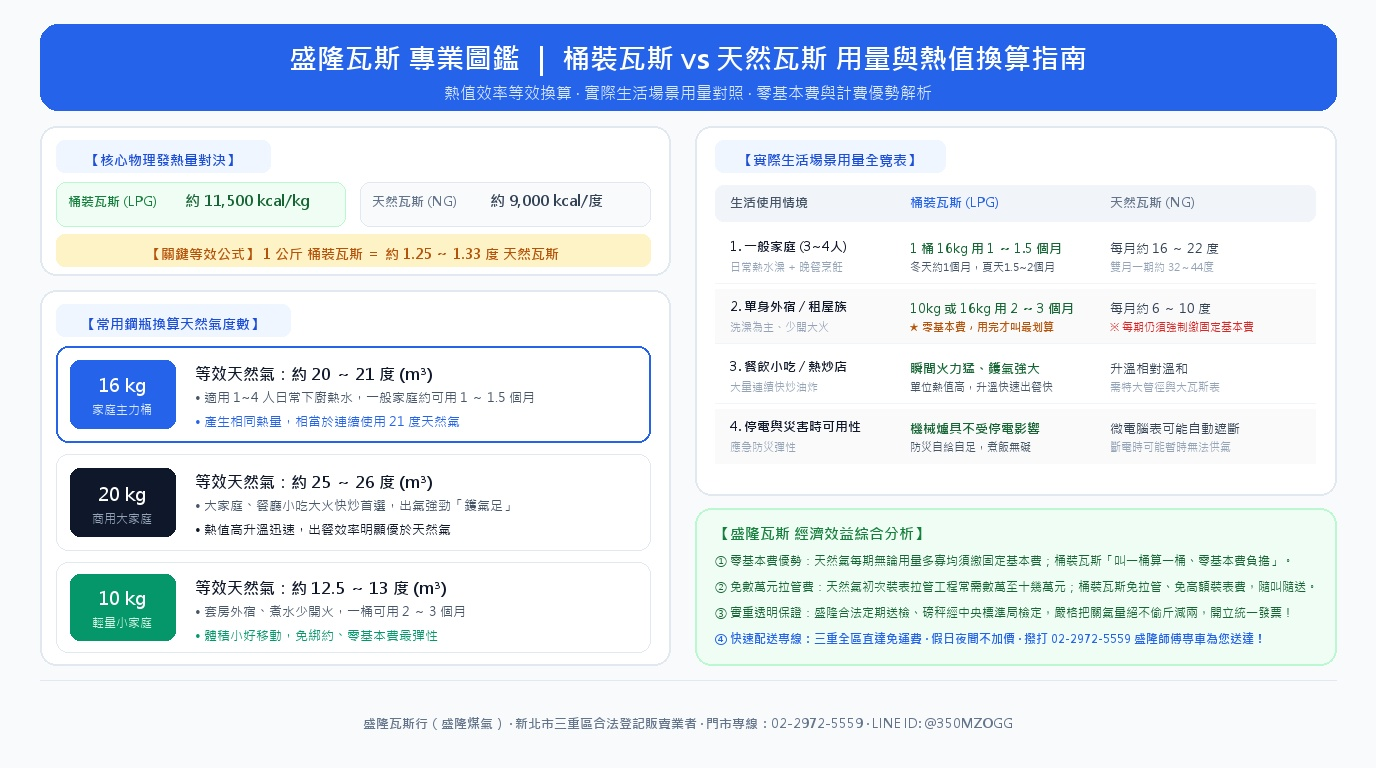
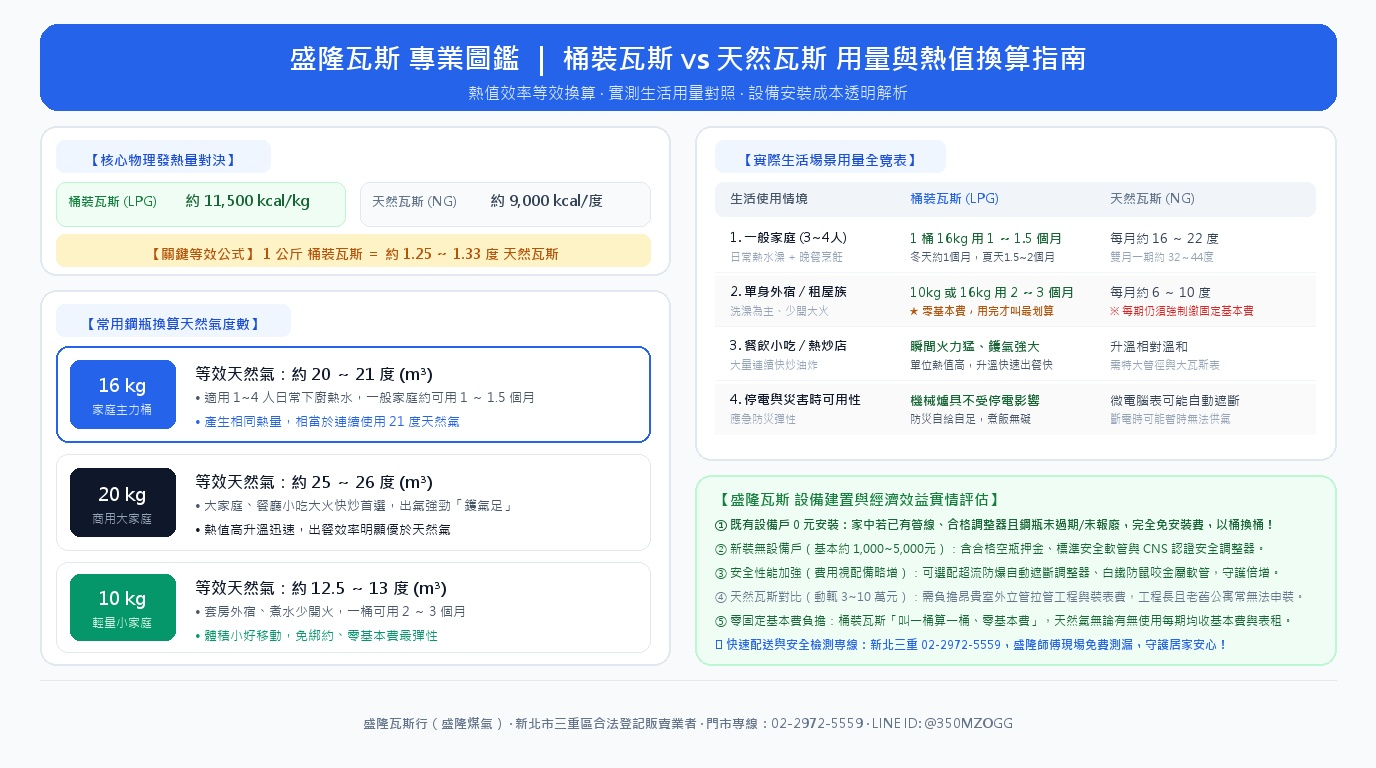
feat: 更新天然瓦斯與桶裝瓦斯綜合評估比較（設備建置、熱值換算、高解析圖表、LINE AI與官網FAQ全面同步）

Changed region(s): [[0.5, 0.25, 0.9688, 0.8438], [0.3125, 0.0938, 0.6875, 0.1562]]

diff --git a/website/index.html b/website/index.html
@@ -1919,14 +1919,14 @@
         {
           "cat": "natural_gas",
           "q": "桶裝瓦斯和天然瓦斯（天然氣）金額費用如何比較？哪一個比較省？",
-          "a": "兩者計費架構不同，各有優勢：<br>① 天然氣（管道瓦斯）：每期無論用量多寡，均需固定繳納「基本費」（約 60~100元/月）與機械表維護費，且初次申裝需負擔昂貴的室外配管與裝表工程費（常達數萬至十幾萬元不等）。<br>② 桶裝瓦斯（液化石油氣）：零基本費負擔、免高額裝表拉管費，「有用才叫、叫一桶算一桶」，價格完全隨中油牌價透明公開。對於低用量家庭、外宿租屋族或需要大火快炒的餐飲業者，桶裝瓦斯總體使用彈性更大、更省荷包！",
-          "image": "./images/natural-vs-lpg-gas.jpg",
+          "a": "兩者計費架構與建置成本不同，實情評估如下：<br>① 初期建置與安裝費用透明比較：<br>• 桶裝瓦斯既有設備戶（0 元安裝）：家中若已有標準管線、合格調整器且鋼瓶未過期/未報廢，完全免安裝費，以桶換桶！<br>• 桶裝瓦斯新裝無設備戶（基本約 1,000~5,000 元）：含合格空瓶押金保證金、標準安全軟管與 CNS 認證安全調整器；若需加強安全防護（如超流防爆自動遮斷器、白鐵防鼠咬金屬管等）費用會視配備略增。<br>• 天然瓦斯申裝費用昂貴：室外配管工程與裝表費動輒高達 3~10 萬元以上，施工期長且老舊公寓或租屋常無法申裝。<br>② 固定基本費與長期使用：天然氣每期無論用量多寡均收取固定基本費與表租；桶裝瓦斯「零固定基本費、叫一桶算一桶」，低用量家庭與租屋族更省荷包！",
+          "image": "./images/gas-consumption-comparison.jpg",
           "isCommon": true
         },
         {
           "cat": "natural_gas",
           "q": "天然瓦斯和桶裝瓦斯的用量如何比較與換算？一桶瓦斯相當於幾度天然氣？",
-          "a": "兩者因單位熱值（發熱量）不同，用量換算與生活實測如下：<br>① 核心熱值換算：桶裝瓦斯（LPG）發熱量高達約 11,500 kcal/kg，天然瓦斯（NG）每度約 9,000 kcal。等效換算公式為【1 公斤桶裝瓦斯 ＝ 約 1.25 ～ 1.33 度天然瓦斯】。<br>② 常用鋼瓶等效度數：<br>• 16kg 家庭標準桶 ≒ 約 20 ～ 21 度天然氣（3~4人家庭約可用 1 ～ 1.5 個月）。<br>• 20kg 餐飲大家庭 ≒ 約 25 ～ 26 度天然氣（大火快炒升溫極快、鑊氣足）。<br>• 10kg 小家庭套房 ≒ 約 12.5 ～ 13 度天然氣（單身外宿約可用 2 ～ 3 個月）。<br>③ 實際用量與費用特點：一般家庭每月約使用 16～22 度天然氣（約等於 1 桶 16kg 瓦斯）；但桶裝瓦斯享「零固定基本費、免昂貴裝表拉管費、叫一桶算一桶」的彈性優勢，低用量家庭更省荷包！",
+          "a": "兩者因單位熱值（發熱量）不同，用量換算與生活實測如下：<br>① 核心熱值換算：桶裝瓦斯（LPG）發熱量高達約 11,500 kcal/kg，天然瓦斯（NG）每度約 9,000 kcal。等效換算公式為【1 公斤桶裝瓦斯 ＝ 約 1.25 ～ 1.33 度天然瓦斯】。<br>② 常用鋼瓶等效度數：<br>• 16kg 家庭標準桶 ≒ 約 20 ～ 21 度天然氣（3~4人家庭日常洗澡烹飪約可用 1 ～ 1.5 個月）。<br>• 20kg 餐飲大家庭 ≒ 約 25 ～ 26 度天然氣（大火快炒升溫極快、鑊氣十足）。<br>• 10kg 小家庭套房 ≒ 約 12.5 ～ 13 度天然氣（單身外宿約可用 2 ～ 3 個月）。<br>③ 經濟建置優勢：桶裝瓦斯既有設備戶 0 元免費安裝以桶換桶（新裝無設備基本約 1,000~5,000 元，加強安全配件選配），免去天然瓦斯 3~10 萬元的高額拉管費，更享「叫一桶算一桶、零固定基本費」的彈性優勢！",
           "image": "./images/gas-consumption-comparison.jpg",
           "isCommon": true
         },

diff --git a/website/faqs-data.js b/website/faqs-data.js
@@ -586,14 +586,14 @@ var allFaqs = [
   {
     "cat": "natural_gas",
     "q": "桶裝瓦斯和天然瓦斯（天然氣）金額費用如何比較？哪一個比較省？",
-    "a": "兩者計費架構不同，各有優勢：<br>① 天然氣（管道瓦斯）：每期無論用量多寡，均需固定繳納「基本費」（約 60~100元/月）與機械表維護費，且初次申裝需負擔昂貴的室外配管與裝表工程費（常達數萬至十幾萬元不等）。<br>② 桶裝瓦斯（液化石油氣）：零基本費負擔、免高額裝表拉管費，「有用才叫、叫一桶算一桶」，價格完全隨中油牌價透明公開。對於低用量家庭、外宿租屋族或需要大火快炒的餐飲業者，桶裝瓦斯總體使用彈性更大、更省荷包！",
-    "image": "./images/natural-vs-lpg-gas.jpg",
+    "a": "兩者計費架構與建置成本不同，實情評估如下：<br>① 初期建置與安裝費用透明比較：<br>• 桶裝瓦斯既有設備戶（0 元安裝）：家中若已有標準管線、合格調整器且鋼瓶未過期/未報廢，完全免安裝費，以桶換桶！<br>• 桶裝瓦斯新裝無設備戶（基本約 1,000~5,000 元）：含合格空瓶押金保證金、標準安全軟管與 CNS 認證安全調整器；若需加強安全防護（如超流防爆自動遮斷器、白鐵防鼠咬金屬管等）費用會視配備略增。<br>• 天然瓦斯申裝費用昂貴：室外配管工程與裝表費動輒高達 3~10 萬元以上，施工期長且老舊公寓或租屋常無法申裝。<br>② 固定基本費與長期使用：天然氣每期無論用量多寡均收取固定基本費與表租；桶裝瓦斯「零固定基本費、叫一桶算一桶」，低用量家庭與租屋族更省荷包！",
+    "image": "./images/gas-consumption-comparison.jpg",
     "isCommon": true
   },
   {
     "cat": "natural_gas",
     "q": "天然瓦斯和桶裝瓦斯的用量如何比較與換算？一桶瓦斯相當於幾度天然氣？",
-    "a": "兩者因單位熱值（發熱量）不同，用量換算與生活實測如下：<br>① 核心熱值換算：桶裝瓦斯（LPG）發熱量高達約 11,500 kcal/kg，天然瓦斯（NG）每度約 9,000 kcal。等效換算公式為【1 公斤桶裝瓦斯 ＝ 約 1.25 ～ 1.33 度天然瓦斯】。<br>② 常用鋼瓶等效度數：<br>• 16kg 家庭標準桶 ≒ 約 20 ～ 21 度天然氣（3~4人家庭約可用 1 ～ 1.5 個月）。<br>• 20kg 餐飲大家庭 ≒ 約 25 ～ 26 度天然氣（大火快炒升溫極快、鑊氣足）。<br>• 10kg 小家庭套房 ≒ 約 12.5 ～ 13 度天然氣（單身外宿約可用 2 ～ 3 個月）。<br>③ 實際用量與費用特點：一般家庭每月約使用 16～22 度天然氣（約等於 1 桶 16kg 瓦斯）；但桶裝瓦斯享「零固定基本費、免昂貴裝表拉管費、叫一桶算一桶」的彈性優勢，低用量家庭更省荷包！",
+    "a": "兩者因單位熱值（發熱量）不同，用量換算與生活實測如下：<br>① 核心熱值換算：桶裝瓦斯（LPG）發熱量高達約 11,500 kcal/kg，天然瓦斯（NG）每度約 9,000 kcal。等效換算公式為【1 公斤桶裝瓦斯 ＝ 約 1.25 ～ 1.33 度天然瓦斯】。<br>② 常用鋼瓶等效度數：<br>• 16kg 家庭標準桶 ≒ 約 20 ～ 21 度天然氣（3~4人家庭日常洗澡烹飪約可用 1 ～ 1.5 個月）。<br>• 20kg 餐飲大家庭 ≒ 約 25 ～ 26 度天然氣（大火快炒升溫極快、鑊氣十足）。<br>• 10kg 小家庭套房 ≒ 約 12.5 ～ 13 度天然氣（單身外宿約可用 2 ～ 3 個月）。<br>③ 經濟建置優勢：桶裝瓦斯既有設備戶 0 元免費安裝以桶換桶（新裝無設備基本約 1,000~5,000 元，加強安全配件選配），免去天然瓦斯 3~10 萬元的高額拉管費，更享「叫一桶算一桶、零固定基本費」的彈性優勢！",
     "image": "./images/gas-consumption-comparison.jpg",
     "isCommon": true
   },

diff --git a/api/_knowledge-base.js b/api/_knowledge-base.js
@@ -127,6 +127,30 @@ export const KNOWLEDGE_BASE_ENTRIES = [
     category: '付款與發票',
     keywords: ['發票', '統編', '抬頭', '電子發票', '刷卡', '信用卡', 'LINE Pay', '轉帳', '現金'],
     standardAnswer: '盛隆瓦斯目前交易以【現場現金付款】為主。我們提供【手寫統一發票】，如需報帳請於下單備註或送達時告知司機「統一編號與公司抬頭」；若發票金額或內容有誤，請於一週內來電 02-2972-5559，我們將由專人為您換開。'
+  },
+
+  // 11. 天然瓦斯與桶裝瓦斯比較
+  {
+    category: '天然瓦斯與桶裝瓦斯比較',
+    keywords: ['天然氣', '天然瓦斯', '天然瓦斯比較', '桶裝瓦斯比較', '哪一個省', '哪一個便宜', '費用比較', '用量比較', '一桶等於幾度', '換算', '安裝費', '初期建置', '管線費', '天然瓦斯划算嗎', '天然氣比較'],
+    standardAnswer: `桶裝瓦斯 (LPG) 與天然瓦斯 (NG) 完整比較與換算指南：
+1. 【熱值與火力換算】：
+• 1 公斤桶裝瓦斯發熱量高達約 11,500 kcal，相當於「1.25 ~ 1.33 度」天然瓦斯！
+• 16kg 標準桶 ≒ 約 20~21 度天然氣（3~4 人家庭約可用 1 ~ 1.5 個月）
+• 20kg 大桶 ≒ 約 25~26 度天然氣（大火快炒升溫快、鑊氣十足）
+• 10kg 輕巧桶 ≒ 約 12.5~13 度天然氣（套房外宿約可用 2 ~ 3 個月）
+2. 【設備安裝費用透明評估】：
+• 既有設備戶（0 元安裝）：家中已有標準管線、合格調整器且鋼瓶未過期/未報廢，完全免安裝費，以桶換桶！
+• 新裝無設備戶（基本約 1,000 ~ 5,000 元）：包含合格空瓶押金、標準安全軟管與 CNS 認證安全調整器。
+• 安全性能加強（費用視配備略增）：可選配超流防爆自動遮斷調整器、白鐵防鼠咬金屬軟管，守護倍增。
+• 天然瓦斯對比（動輒 3 ~ 10 萬元以上）：申裝需負擔昂貴室外立管工程與裝表費，工期長且老舊公寓常無法申裝。
+3. 【固定基本費差異】：
+• 桶裝瓦斯：叫一桶算一桶、零固定基本費，用多少買多少最彈性！
+• 天然瓦斯：無論當月有沒有使用，每期均須繳交固定基本費與瓦斯表租。
+4. 【停電應急防災】：
+• 桶裝瓦斯搭配機械式點火爐具，遇大停電完全不受影響，煮飯熱水自給自足！
+
+歡迎加入 LINE 點選「立即叫瓦斯」或撥打門市專線 02-2972-5559，盛隆師傅現場免費測漏，守護居家安心！`
   }
 ];
 
@@ -187,6 +211,11 @@ export function classifyQueryComplexity(userQuery = '') {
 
   // 3. 異常耗速、疑慮與客訴爭議 -> 深度專家診斷
   if (/用這麼快|偷斤減兩|少灌|摻水|結霜|結冰|用很兇|用很快|客訴|投訴|爭議|不合理/i.test(lower)) {
+    return 'expert';
+  }
+
+  // 4. 天然瓦斯與用量換算比較 -> 深度專家診斷
+  if (/天然|比較|幾度|換算|安裝費|管線費|建置費/i.test(lower)) {
     return 'expert';
   }
 

diff --git a/docs/GAS_CONSUMER_FAQ_300.md b/docs/GAS_CONSUMER_FAQ_300.md
@@ -512,7 +512,7 @@
 * **Q196: 天然氣和桶裝瓦斯有什麼差別？**  
   👉 天然氣為管線輸送之甲烷 (CH4)，氣體比空氣輕；桶裝瓦斯為鋼瓶運送之丙烷與丁烷液化氣 (LPG)，氣體比空氣重。
 * **Q197: 天然氣比較便宜嗎？**  
-  👉 天然氣以度計價但需繳每期基本費及昂貴的初裝管線費；桶裝瓦斯免基本費、免初裝費，用多少買多少。
+  👉 天然氣以度計價但需繳每期固定基本費及昂貴的初裝管線費（常達 3~10 萬元以上）；桶裝瓦斯零固定基本費，既有設備戶（有管線、合格調整器、未過期未報廢鋼瓶）0 元免安裝費（以桶換桶），新裝無設備戶基本安裝僅約 1,000~5,000 元（加強安全性能配件選配），叫幾桶算幾桶更靈活。
 * **Q198: 桶裝瓦斯和天然氣哪個比較安全？**  
   👉 兩者只要設備合規定期檢驗皆非常安全。桶裝瓦斯鋼瓶具備獨立角閥，無地震地下管網破裂洩漏之風險。
 * **Q199: 天然氣與桶裝瓦斯火力一樣嗎？**  
@@ -526,11 +526,11 @@
 * **Q203: 桶裝瓦斯可以轉成天然氣嗎？**  
   👉 社區若已拉設公用天然氣大管，住戶可申請瓦斯表分管並將舊爐具改機。
 * **Q204: 申請天然氣需要多少錢？**  
-  👉 天然氣外管與室內表內管裝置工程費通常高達數萬元至十數萬元不等。
+  👉 天然氣外管鋪設、立管工程與室內表內管裝置費通常高達 3 萬至 10 萬元以上，老舊公寓或租屋族常無法申裝；對比桶裝瓦斯既有設備戶免安裝費（0 元），新裝無設備戶基本安裝僅約 1,000~5,000 元，成本門檻極低。
 * **Q205: 沒有天然氣管線可以申請嗎？**  
   👉 若整棟大樓或巷弄未鋪設主幹管，天然氣公司通常無法單戶拉設，此時桶裝瓦斯是最佳解決方案。
 * **Q206: 天然氣與桶裝瓦斯哪個比較省？**  
-  👉 需綜合評估！家庭低用量若計入天然氣每月固定基本費與昂貴初裝工程分攤，桶裝瓦斯往往更具彈性與經濟效益。
+  👉 需綜合評估！熱值上 1kg 桶裝瓦斯（11,500 kcal）相當於 1.25~1.33 度天然氣（9,000 kcal/度）。初期建置上，桶裝瓦斯既有設備戶 0 元以桶換桶，新裝無設備戶基本安裝約 1,000~5,000 元（選配防爆自動遮斷器或白鐵防鼠咬管費用略增），且「叫一桶算一桶、零固定基本費」；天然氣則動輒數萬元初裝費並每期固定收取基本費與表租。因此對一般家庭、外宿租屋族與小吃餐飲業，桶裝瓦斯整體彈性與省錢優勢更顯著。
 * **Q207: 天然氣和桶裝瓦斯的壓力一樣嗎？**  
   👉 不一樣！天然氣供氣壓力約 1.5~2.0 kPa，桶裝瓦斯標準調壓為 2.8 kPa (R280)。
 * **Q208: 天然氣和桶裝瓦斯的接頭一樣嗎？**  

diff --git a/docs/TODO.md b/docs/TODO.md
@@ -22,6 +22,15 @@
   - 單元測試：[`tests/trigger-github-workflow.test.mjs`](file:///c:/Gass/tests/trigger-github-workflow.test.mjs)
   - 環境範例：[`.env.example`](file:///c:/Gass/.env.example)
 
+### 2. 全維度安全性與 API 穩定度深度測試與壓力驗證 (Multi-Angle Security & Stability QA)
+- **狀態**：`[/]` 進行中
+- **優先級**：`P0` (全系統穩定性與安全邊界把關)
+- **負責設備/端點**：`全站 API (api/, website/api/)` ＆ `單元測試 (tests/multi-angle-security-and-stability.test.mjs)`
+- **估計花費時間**：15 ~ 20 分鐘
+- **老闆指示備註**：從「邊界極端負載、高頻突發併發、偽造權限繞過矩陣、異常容錯降級、敏感資訊零外洩」五大維度全方位測試，確保全系統高併發且安全無虞。
+- **關聯文件**：
+  - 綜合測試：[`tests/multi-angle-security-and-stability.test.mjs`](file:///c:/Gass/tests/multi-angle-security-and-stability.test.mjs)
+
 ---
 
 ## ⏳ 二、 近期高優先待辦 (High Priority / Next Sprint)
